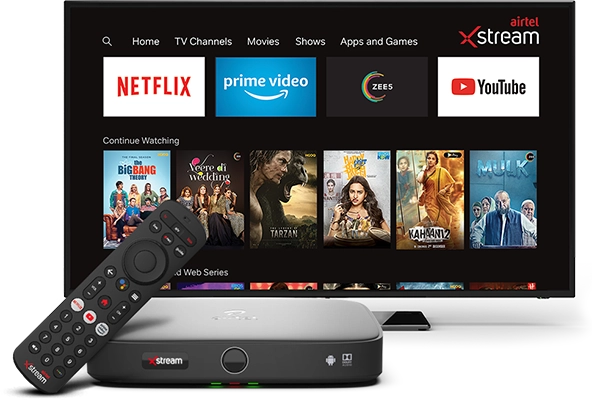
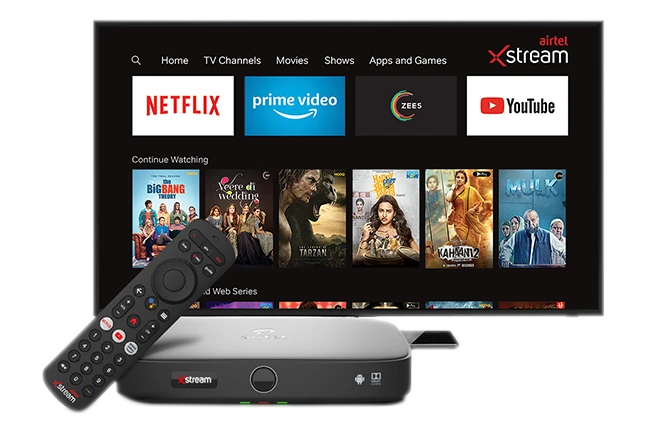
Fix URL, use og:image, format queries, un-nest code, layout consistency, add white background (#1933)

diff --git a/src/pages/case-study/airtel-xstream-play.tsx b/src/pages/case-study/airtel-xstream-play.tsx
@@ -11,60 +11,68 @@ import juCss from "../../css/case-study/jumbotron.module.css"
 import ouCss from "../../css/case-study/outcome.module.css"
 import seCss from "../../css/section.module.css"
 
+const contentAnalyticsQuery = `
+create table IF NOT EXISTS content_analytics_ (
+  ts TIMESTAMP,
+  ua TIMESTAMP,
+  ca TIMESTAMP,
+  ContentId SYMBOL CAPACITY 50000 CACHE,
+  StreamingPartnerId SYMBOL CAPACITY 500 CACHE,
+  TotalRequestIds long,
+  TotalUserIds long,
+  SegmentCount long,
+  TotalFileSize long
+) timestamp(ts) PARTITION BY DAY;
+`.trim()
+
+const deviceAnalyticsQuery = `
+SELECT
+  Upper(userdevice) AS UserDevice,
+  Upper(userdevicebrand) AS UserDeviceBrand,
+  Upper(useros) AS UserOS,
+  Sum(totalrequestids) AS RequestId,
+  Sum(totaluserids) AS UserId,
+  Sum(segmentcount) AS SegmentCount,
+  Sum(totalfilesize) AS TotalFileSize
+FROM
+  'device_analytics_'
+`.trim()
+
+const values = [
+  {
+    description: "Use case: Application metrics, analytics, dashboards",
+    icon: {
+      alt: "Breafcase icon",
+      src: "/img/pages/case-study/icons/briefcase.svg",
+    },
+  },
+  {
+    description: 'Industry: "Over the Top" streaming media',
+    icon: {
+      alt: "Globe icon",
+      src: "/img/pages/case-study/icons/globe.svg",
+    },
+  },
+  {
+    description: "Deployment: self-hosted QuestDB",
+    icon: {
+      alt: "Flag icon",
+      src: "/img/pages/case-study/icons/flag.svg",
+    },
+  },
+]
+
 const XStreamPlay = () => {
   const title = "Airtel XStream Play"
   const description =
     "QuestDB is used by Airtel XStream Play streaming media service to store and analyze their user engagement metrics in real-time."
 
-  const contentAnalyticsQuery = `
-create table IF NOT EXISTS content_analytics_  (ts TIMESTAMP, ua TIMESTAMP, ca TIMESTAMP,
-  ContentId SYMBOL CAPACITY 50000 CACHE,
-  StreamingPartnerId SYMBOL CAPACITY 500 CACHE,
-  TotalRequestIds long, TotalUserIds long,
-  SegmentCount long, TotalFileSize long) timestamp(ts) PARTITION BY DAY;
-`
-
-  const deviceAnalyticsQuery = `
-  SELECT   Upper(userdevice)      AS UserDevice,
-         Upper(userdevicebrand) AS UserDeviceBrand,
-         Upper(useros)          AS UserOS,
-         Sum(totalrequestids)   AS RequestId,
-         Sum(totaluserids)      AS UserId,
-         Sum(segmentcount)      AS SegmentCount,
-         Sum(totalfilesize)     AS TotalFileSize
-  FROM   ‘device_analytics_‘  
-`
-
-  const values = [
-    {
-      description: "Use case: Application metrics, analytics, dashboards",
-      icon: {
-        alt: "Breafcase icon",
-        src: "/img/pages/case-study/icons/briefcase.svg",
-      },
-    },
-    {
-      description: 'Industry: "Over the Top" streaming media',
-      icon: {
-        alt: "Globe icon",
-        src: "/img/pages/case-study/icons/globe.svg",
-      },
-    },
-    {
-      description: "Deployment: self-hosted QuestDB",
-      icon: {
-        alt: "Flag icon",
-        src: "/img/pages/case-study/icons/flag.svg",
-      },
-    },
-  ]
-
   return (
     <Layout
-      canonical="/case-study/xstream-play"
+      canonical="/case-study/airtel-xstream-play"
       description={description}
       title={title}
-      image="/img/pages/customers/logos/airtel.svg"
+      image="/img/pages/case-study/airtel-xstream-play/banner.webp"
     >
       <section
         className={clsx(
@@ -104,9 +112,9 @@ create table IF NOT EXISTS content_analytics_  (ts TIMESTAMP, ua TIMESTAMP, ca T
         <div className={juCss.jumbotron__banner}>
           <Image
             alt="Logo of Airtel"
-            height={475}
+            height={380}
             src="/img/pages/case-study/airtel-xstream-play/airtel-xstream-play.webp"
-            width={800}
+            width={640}
           />
         </div>
       </section>
@@ -254,8 +262,9 @@ create table IF NOT EXISTS content_analytics_  (ts TIMESTAMP, ua TIMESTAMP, ca T
             and provides aggregate sums:
           </p>
 
+          <CodeBlock>{deviceAnalyticsQuery}</CodeBlock>
+
           <p className="font-size--large">
-            <CodeBlock>{deviceAnalyticsQuery.trim()}</CodeBlock>
             Note that the example query contains no <code>WHERE</code>{" "}
             condition. It scans the entire table and returns all rows. This is a
             testament to QuestDB's performance capabilities within large
@@ -277,9 +286,8 @@ create table IF NOT EXISTS content_analytics_  (ts TIMESTAMP, ua TIMESTAMP, ca T
             made for the content, and the number of unique users who accessed
             the content.
           </p>
-          <p className="font-size--large">
-            <CodeBlock>{contentAnalyticsQuery.trim()}</CodeBlock>
-          </p>
+
+          <CodeBlock>{contentAnalyticsQuery}</CodeBlock>
 
           <p className="font-size--large">
             The query provides fast delivery of the rich data needed to
@@ -320,9 +328,14 @@ create table IF NOT EXISTS content_analytics_  (ts TIMESTAMP, ua TIMESTAMP, ca T
             <a href="/docs/concept/deduplication/">Data deduplication</a>, which
             is live as of QuestDB 7.3.
           </p>
-          <hr />
 
-          <div className={clsx("markdown", seCss["section--column"])}>
+          <div
+            className={clsx(
+              "markdown",
+              seCss["section--inner"],
+              seCss["section--column"],
+            )}
+          >
             <p className={caCss.card__title}>
               <span className={caCss.card__quote}>&ldquo;</span>Switching to
               QuestDB was a game-changer for our analytics. With Elasticsearch,
@@ -332,7 +345,9 @@ create table IF NOT EXISTS content_analytics_  (ts TIMESTAMP, ua TIMESTAMP, ca T
               <span className={caCss.card__quote}>&rdquo;</span>
             </p>
             <p className={caCss.card__title}>
-              <b>Ajay, Lead Media Analytics at Airtel, XStream Play </b>
+              <strong>
+                Ajay Pilaniya, Lead Media Analytics at Airtel, XStream Play
+              </strong>
             </p>
           </div>
         </div>
